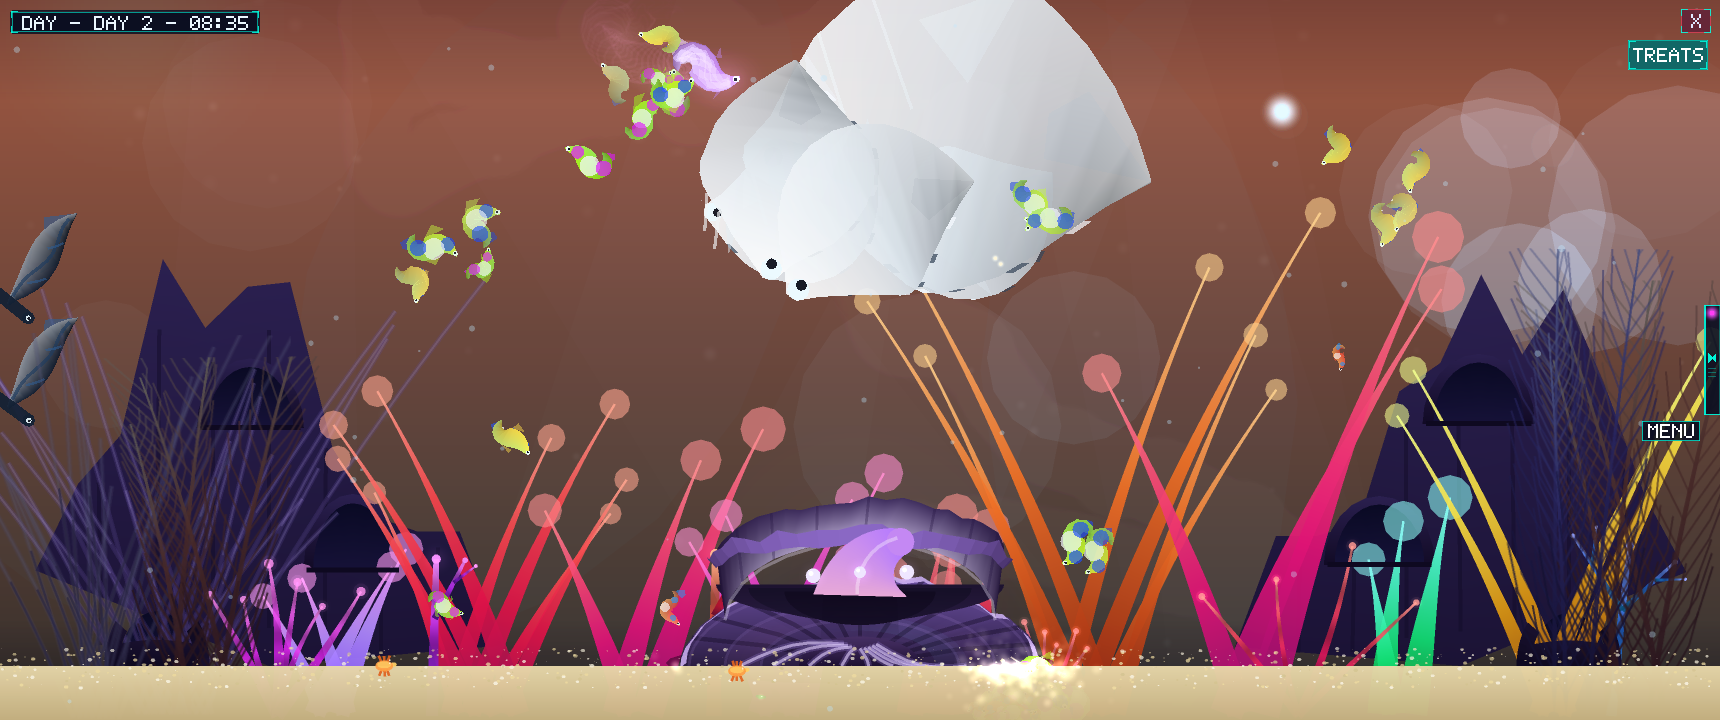
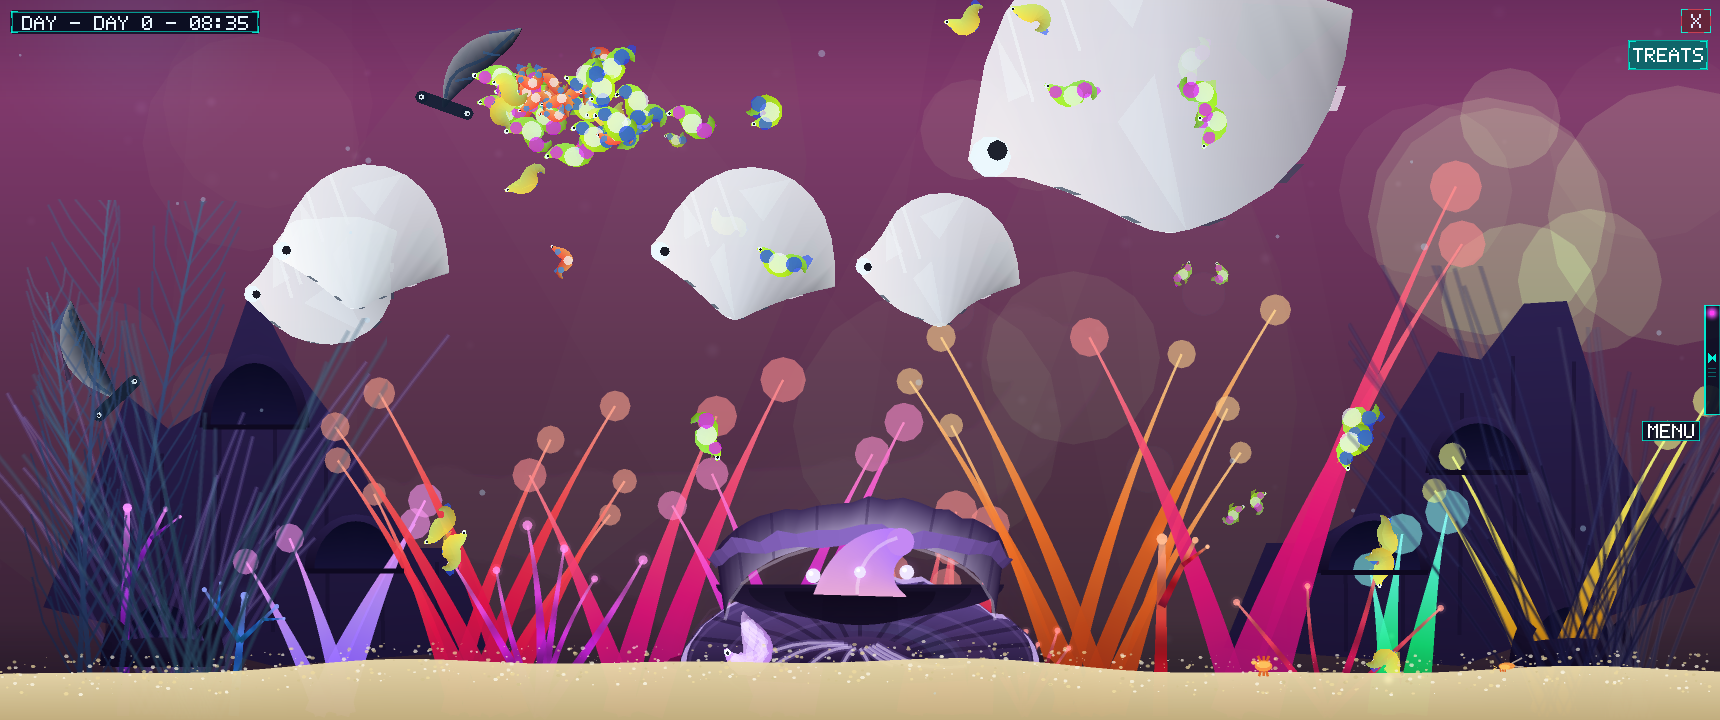
Flakes rest on duned sand; the bed is terrain, not a line (G68)
The old flake rest condition parked them at the screen bottom (H-10) --
visually buried under the sand bed, and the bed itself was a flat quad.

One deterministic relief curve now lives in the contract (three-sine
swell, about +/-11 px) and is shared by the simulation and the
renderer, so the two can never disagree about where the surface is.
tickFood settles each flake exactly on SandSurfaceY(x) - 1.5 px and
zeroes its velocity: uneaten food sits ON the dunes, holding its spot,
inviting the school to dive for it. Live treats are untouched and stay
free. DrawSandBed draws a relief-following strip instead of the flat
top quad, and the speckle rows ride the same curve.

TestFlakesRestOnSand: three flakes land on the dunes, never pass the
surface, and hold still after landing. TestSandReliefIsNotFlat pins
that the relief spans real terrain over the tank width.

diff --git a/internal/sim/sand_test.go b/internal/sim/sand_test.go
@@ -64,3 +64,56 @@ func TestSandStaysBounded(t *testing.T) {
 		}
 	}
 }
+
+// G68: flakes come to rest ON the dune surface — never buried under the
+// bed, and once landed they hold their spot (the school dives for them
+// where they lie). The relief is real terrain, not a ruler line.
+func TestFlakesRestOnSand(t *testing.T) {
+	w := titanWorld(t, 0)
+	w.foods = w.foods[:0]
+	drop := func(x float64) contract.Vec2 {
+		return v2(x, contract.SandSurfaceY(w.H, x)-60)
+	}
+	w.foods = append(w.foods,
+		Food{Pos: drop(300), Seed: 1},
+		Food{Pos: drop(900), Seed: 2},
+		Food{Pos: drop(1500), Seed: 3})
+	const dt = 0.05
+	resting := 0
+	for i := 0; i < 60*6; i++ { // 18 s of sinking (the flake TTL is 25)
+		w.tickFood(dt)
+		for k := range w.foods {
+			fd := &w.foods[k]
+			surf := contract.SandSurfaceY(w.H, fd.Pos.X)
+			if fd.Pos.Y > surf {
+				t.Fatalf("flake %d buried: y=%.1f below the dune surface %.1f", k, fd.Pos.Y, surf)
+			}
+			if hyp2(fd.Vel) < 0.01 && fd.Pos.Y > surf-3 {
+				resting++
+			}
+		}
+	}
+	if resting == 0 {
+		t.Fatal("no flake ever came to rest on the sand")
+	}
+	// at rest they hold: no drift, no further sink
+	x0, y0 := w.foods[0].Pos.X, w.foods[0].Pos.Y
+	for i := 0; i < 60; i++ {
+		w.tickFood(dt)
+	}
+	if d := hyp2(sub(w.foods[0].Pos, v2(x0, y0))); d > 0.5 {
+		t.Fatalf("a resting flake drifted %.2f px — it must sit still", d)
+	}
+}
+
+// G68: the relief curve is terrain — swells and a channel, never flat.
+func TestSandReliefIsNotFlat(t *testing.T) {
+	lo, hi := 1e18, -1e18
+	for x := 0.0; x <= 1720; x += 8 {
+		r := contract.SandRelief(x)
+		lo, hi = min(lo, r), max(hi, r)
+	}
+	if hi-lo < 10 {
+		t.Fatalf("relief spans only %.1f px — reads as a ruler line", hi-lo)
+	}
+}

diff --git a/internal/render/sand.go b/internal/render/sand.go
@@ -10,6 +10,7 @@
 package render
 
 import (
+	"github.com/Rollingzzzzz/Fish-tank/internal/contract"
 	"github.com/hajimehoshi/ebiten/v2"
 )
 
@@ -37,11 +38,20 @@ func DrawSandBed(dst *ebiten.Image, cells []float64, w, h, floorY, night float64
 	baseC := lerpRGBA(cSandBase, cSandNight, night)
 	deepC := lerpRGBA(cSandDeep, cSandNight, night)
 	var base mesh
-	// the solid layer: floor line → bottom edge, full width
-	base.quad(
-		v2(0, floorY), v2(w, floorY), v2(w, h), v2(0, h),
-		withA(baseC, 245), withA(baseC, 245),
-		withA(deepC, 245), withA(deepC, 245))
+	// the solid layer follows the shared relief curve (G68): gentle swells
+	// and a shallow channel instead of a ruler line — the same surface the
+	// simulation rests flakes on
+	const step = 24.0
+	surf := func(x float64) float64 { return contract.SandSurfaceY(h, x) }
+	prevX, prevY := 0.0, surf(0)
+	for x := step; x <= w+step; x += step {
+		y := surf(x)
+		base.quad(
+			v2(prevX, prevY), v2(x, y), v2(x, h), v2(prevX, h),
+			withA(baseC, 245), withA(baseC, 245),
+			withA(deepC, 245), withA(deepC, 245))
+		prevX, prevY = x, y
+	}
 	base.draw(dst, false)
 	var m mesh
 	for i, off := range cells {
@@ -54,7 +64,7 @@ func DrawSandBed(dst *ebiten.Image, cells []float64, w, h, floorY, night float64
 			f1 := sandFract(sin(float64(i*7+k*13)) * 43758.5453)
 			f2 := sandFract(sin(float64(i*11+k*29)) * 24634.6345)
 			gx := x + (f1-0.5)*cellW*1.7 + off*1.4
-			gy := floorY + 2 + f2*20 - lift*0.7
+			gy := surf(gx) + 2 + f2*20 - lift*0.7
 			size := 1.1 + f1*1.5
 			col := cSandPale
 			if k == 1 || k == 3 {

diff --git a/internal/sim/entities.go b/internal/sim/entities.go
@@ -25,11 +25,21 @@ func (w *World) tickFood(dt float64) {
 	for i := range w.foods {
 		fd := &w.foods[i]
 		fd.Age += dt
-		if fd.Pos.Y < w.H-10 {
+		// G68: flakes come to rest ON the dunes — never buried under the
+		// bed. The surface is the shared relief curve, so they sit exactly
+		// where the renderer draws the sand. Live treats stay free.
+		surface := contract.SandSurfaceY(w.H, fd.Pos.X) - 1.5
+		if fd.Pos.Y < surface {
 			fd.Vel.Y = minF(fd.Vel.Y+dt*30, foodSink)
 			fd.Pos.X += (fd.Vel.X + sin(w.time*3+fd.Seed)*8) * dt
 			fd.Pos.Y += fd.Vel.Y * dt
 			fd.Vel.X *= 1 - 0.6*dt
+			if fd.Pos.Y > surface {
+				fd.Pos.Y = surface
+			}
+		} else {
+			fd.Pos.Y = surface
+			fd.Vel.X, fd.Vel.Y = 0, 0 // at rest on the dune
 		}
 		if fd.Age > foodTTLSec {
 			continue // dissolved

diff --git a/internal/contract/sand.go b/internal/contract/sand.go
@@ -1,0 +1,20 @@
+// v1.1 G68: the sand bed's shared topography — one deterministic relief
+// curve used by BOTH the simulation (where flakes come to rest) and the
+// renderer (where the bed is drawn), so food sits exactly on the dunes
+// the viewer sees. Gentle swells and a shallow channel: real seabeds are
+// never a ruler line.
+package contract
+
+import "math"
+
+// SandRelief is the bed's height offset at world x (px, + = deeper).
+func SandRelief(x float64) float64 {
+	return math.Sin(x*0.0043+1.7)*6 +
+		math.Sin(x*0.011+0.4)*3.5 +
+		math.Sin(x*0.021+2.9)*2
+}
+
+// SandSurfaceY is the y of the sand surface at x in a tank of height h.
+func SandSurfaceY(h, x float64) float64 {
+	return h*FloorLineFrac + SandRelief(x)
+}

diff --git a/docs/TRACEABILITY.md b/docs/TRACEABILITY.md
@@ -100,3 +100,4 @@ blocks the release.**
 | 82 | The movement fixes introduced glitching — some fish move in teleport-like jumps; no fish may ever glitch-teleport | v1.1 G65 | the G62/G63 motion pins discard the lateral part of avoidance, so fish now reach the Chosen rim still driving forward and the enforcer answered with a radial SNAP all the way out to need = R+16+half-body (up to ~73 px for a shark, ~31 px for a neon) — a visible teleport; enforceFishZones reworked: a head found inside lands ON the rim (R+2, a solid-wall projection bounded by the frame own travel), the sagging-body drain halved 12→6 px per frame, and the pin heading slides onto the outward hemisphere so the fish skirts the rim instead of grinding back in; TestNoFishTeleportsAtTheNestRim launches a shark and a normal straight at the circle for 8 s — every per-frame jump stays within 3× the fish own speed budget + 8 px (the Chosen burst passes, the old snap fails), and her head never rests inside the ring |
 | 83 | No part of the big bodies may ever leave the visible area | v1.1 G66 | the titan pod carried a v1.1 freeEdge exemption (visit-machine leftover: titans skipped the X bounds entirely) and the tall scalare frames clipped through the top edge; applyFrameBounds now contains every fish (freeEdge removed) with a body-scaled top margin (0.42×bodyLen+6, covering the trailing cone dive excursion) and a body-relative ceiling force; a body-scaled curl trigger (0.5×bodyLen+24 px from the glass, superseding TitanEdgeTurn 0.12W) gives the 180° arc room to turn fully inside; clampBodyInFrame runs as the last spine pass — a per-point canvas clamp whose rare corrections are a few pixels of glass contact, never a teleport; TestTitanBodiesStayInFrame: 120 s of sweeps with corner startle bolts, every spine point of every titan and shark inside the canvas (worst margin 3.0 px); spawnPod lays its chain inside the canvas; TestTitanSpineNeverFolds/TestTimeLapse judge open-water bends only — a glass graze is pinned contact, not a whip |
 | 84 | The big whites still turned like clock hands: with the eye parked at x+20 and the tail at x-20, the tail must stay on y=0 while the eye holds x (no pivot spin); the pod should glide slowly to x+100 (the right corner) and wheel a graceful 180° in the fake Z, arriving clustered at x-100 | v1.1 G67 | root cause was arithmetic: the arc pace (0.8×maxSp) times the window (2.6 s) laid a 46 px path for a 448 px body — a 15 px radius, the head effectively pivoting in place. The turn is now a true convoy arc: TitanTurnWindow 8.0 s, radius TitanTurnRadiusFrac 0.25×bodyLen, pace v = πR/window (never below 0.9× cruise) — the head travels a quarter tank through the half circle; the LEADER owns the clock (titanStartConvoyTurn flips all five at once, one clock, five parallel arcs, the cluster holds); the arc curls UP against the surface light by default (radius shrinks to the room, down-curl only when the top is closed) and rides the fake Z (the depth lane lifts 0.30→0.52→0.30 mid-arc); the spine axis hangs off the sweep heading (a startle-bent velocity can never tear the chain), the bend relaxes to 0.18 mid-arc and retightens as it closes, and the chain settles onto the new line through the arc itself (eased k, finished when the arc ends); straight cruise: always-on altitude pull + post-turn climb home keep the pod in the upper water, tail wave halved for big bodies (the trailing tip shimmers, it does not wander off the line); burst chases turn the head at 6.5 rad/s and shave both velocity and acceleration off the face blind side. TestTitanConvoyTurn: on the first arc frame all five turn counters are armed (simultaneity), windowed net motion never stalls (no pivot), the pod arrives within 700 px of its leader; fold judges measure true self-overlap with glass-contact exemption; titan/large-body test worlds run at real 1720×720 proportions (an 800 px tank has no legal geometry for a 448 px body) |
+| 85 | Flakes must never sink below the sand boundary (treats stay free); uneaten sinking flakes should REST on top of the sand so diving fish make an eye-catching interaction. And the sand must not read as a ruler line — gentle dunes and channels for realism | v1.1 G68 | one shared deterministic relief curve (contract/sand.go SandRelief: three-sine swell ~±11 px, SandSurfaceY = 0.925H + relief) is used by BOTH sides, so simulation and pixels agree on where the surface is; tickFood now settles each flake exactly on SandSurfaceY(x) − 1.5 px with velocity zeroed (at rest it holds its spot — no drift, no burial; live treats untouched and free); DrawSandBed replaced its flat top quad with a 24 px relief-following strip, speckle rows ride the same curve; TestFlakesRestOnSand (three flakes land on the dunes, never below the surface, hold still for 3 s after landing) + TestSandReliefIsNotFlat (relief spans ≥10 px over the tank width); probe 10-critters.png band: duned surface, no ruler line |
